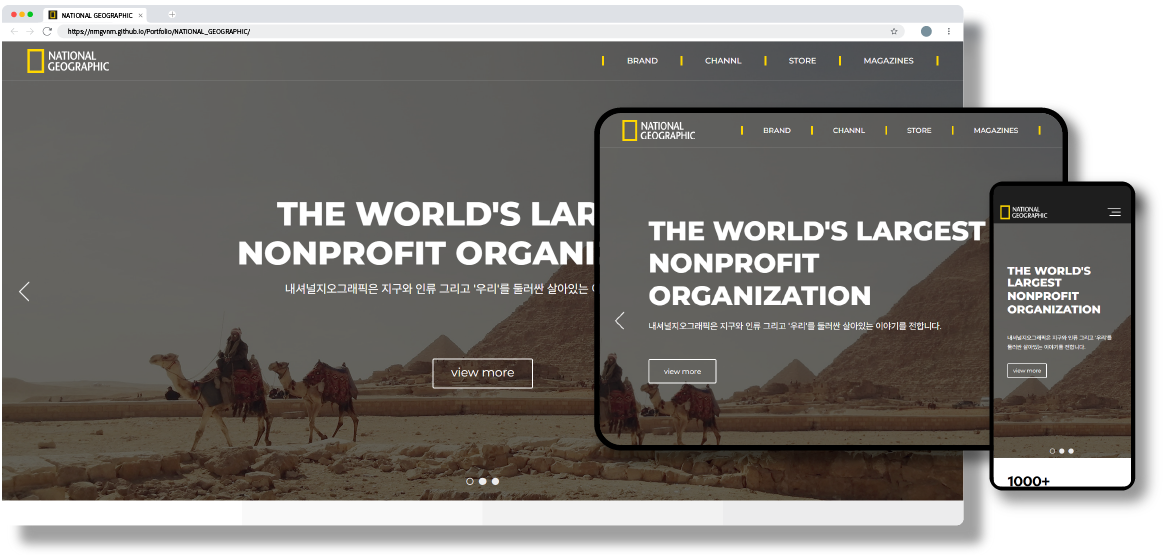
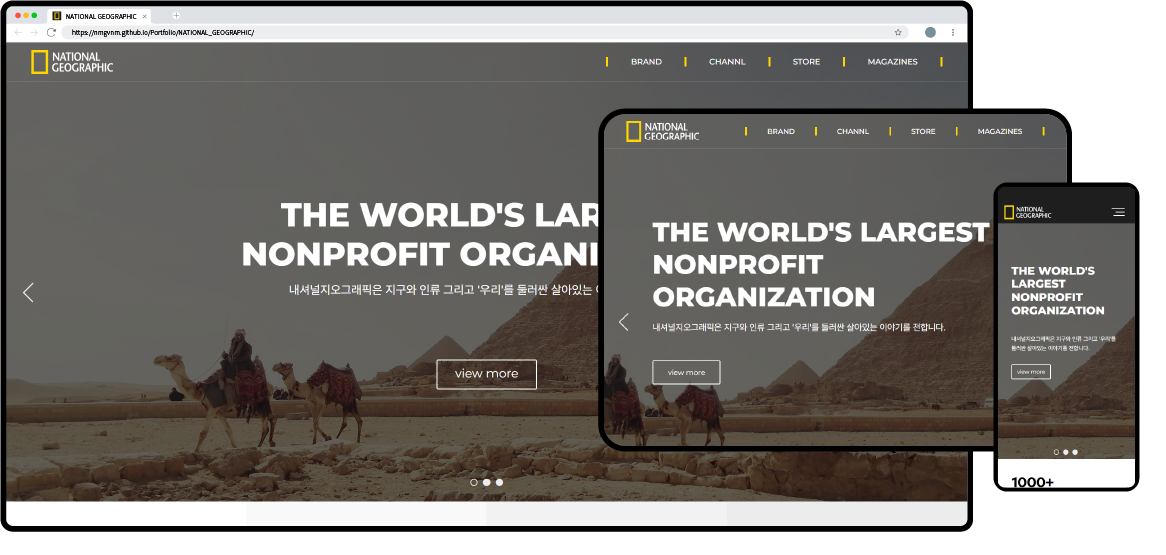
project01 css 완성

diff --git a/PROJECT/01/index.html b/PROJECT/01/index.html
@@ -4,7 +4,7 @@
  <meta charset="UTF-8">
  <meta http-equiv="X-UA-Compatible" content="IE=edge">
 <meta name="viewport" content="width=device-width, initial-scale=1, minimum-scale=1, maximum-scale=1, user-scalble=no">
-<title>NATIONAL GEOGRAPHIC</title>
+<title>PROJECT 01</title>
 <!-- reset.css -->
 <link rel="stylesheet" href="../../common/reset.css">
 <!-- font.css -->
@@ -55,11 +55,11 @@
       <div class="main01">
         <div class="design box">
           <h2>01. Design</h2>
-          <ul class="design_txt">
+          <ul class="design_txt content">
             <li id="concept">
               <h3>Concept</h3>
-              <p>내셔널지오그래픽이 가지고 있는 브랜드 이미지를 최대한 살리기 위해 브랜드 자체 컬러를 사용했습니다.<br>
-                동시에 각 메뉴에 맞는 이미지를 선정하여 시각적으로도 어떠한 메뉴인지 알 수 있도록 하였습니다.<br>
+              <p>내셔널지오그래픽이 가지고 있는 브랜드 이미지를 최대한 살리기 위해 브랜드 자체 컬러를 사용했습니다.
+                동시에 각 메뉴에 맞는 이미지를 선정하여 시각적으로도 어떠한 메뉴인지 알 수 있도록 하였습니다.
                 깔끔한 이미지를 위해 정돈된 레이아웃과 가독성있는 폰트를 사용하였습니다.</p>
             </li>
             <li id="keyword">
@@ -155,44 +155,46 @@
       <div class="main02">
         <div class="pubilsing box">
           <h2>02. Pubilsing</h2>
-          <div id="responsive">
-            <h3>Responsive</h3>
-            <ul id="device">
-              <li>
-                <p>PC</p>
-                <p>1440px</p>
-              </li>
-              <li>
-                <p>Tablet</p>
-                <p>980px</p>
-              </li>
-              <li>
-                <p>Mobile</p>
-                <p>390px</p>
-              </li>
-            </ul>
-          </div>
-          <div id="about">
-            <h3>About</h3>
-            <ul class="tag">
-              <li>#grid</li>
-              <li>#cssTransition</li>
-              <li>#반응형웹</li>
-              <li>#JavaScript</li>
-              <li>#API</li>
-              <li>#웹표준</li>
-            </ul>
-          </div>
-          <div id="goal">
-            <h3>Goal</h3>
-            <p>JavaScript, API 적용 및 반응형 웹 제작</p>
+          <div class="pubilsing_txt content">
+            <div id="responsive">
+              <h3>Responsive</h3>
+              <ul id="device">
+                <li>
+                  <p>PC</p>
+                  <p>1440px</p>
+                </li>
+                <li>
+                  <p>Tablet</p>
+                  <p>980px</p>
+                </li>
+                <li>
+                  <p>Mobile</p>
+                  <p>390px</p>
+                </li>
+              </ul>
+            </div>
+            <div id="about">
+              <h3>About</h3>
+              <ul class="tag">
+                <li>#grid</li>
+                <li>#cssTransition</li>
+                <li>#반응형웹</li>
+                <li>#JavaScript</li>
+                <li>#API</li>
+                <li>#웹표준</li>
+              </ul>
+            </div>
+            <div id="goal">
+              <h3>Goal</h3>
+              <p>JavaScript, API 적용 및 반응형 웹 제작</p>
+            </div>
           </div>
         </div>
       </div>
       <div class="main03">
         <div class="problems_solution box">
           <h2>03. Problems & Solution</h2>
-          <ul class="txt">
+          <ul class="PS_txt content">
             <li>
               <h3>화면 크기에 따른 gird 레이아웃 오류</h3>
               <p>모바일에서 주었던 grid값 때문에 태블릿 버전의 레이아웃이 무너짐.<br>
@@ -200,13 +202,13 @@
             </li>
             <li>
               <h3>숫자 카운팅 효과</h3>
-              <p>.setInterval() /.clearInterval() 이용하여 작업함. 하지만 숫자마다 올라가는 <br>
-                속도가 다르고 아직 사용에 미숙하여 작동에 버벅거림이 있다. <br>
+              <p>.setInterval() /.clearInterval() 이용하여 작업함. 하지만 숫자마다 올라가는 
+                속도가 다르고 아직 사용에 미숙하여 작동에 버벅거림이 있다. 
                 좀 더 쉽게 구현할 방법을 찾아봐야 함.</p>
             </li>
             <li>
               <h3>JavaScript .Toggle() 이용</h3>
-              <p>모바일 버전일 때 메뉴를 css의 hover을 이용하여 구현함. 새로 배운 .toggle()을<br>
+              <p>모바일 버전일 때 메뉴를 css의 hover을 이용하여 구현함. 새로 배운 .toggle()을
                 이용하여 모바일 버전에서 클릭시 메뉴가 보일 수 있도록 추가 작업함. </p>
             </li>
           </ul>
@@ -215,22 +217,27 @@
       <div class="main04">
         <div class="review box">
           <h2>04. Review</h2>
-          <p>디자인부터 퍼블리싱까지 처음으로 제작한 첫 프로젝트입니다.<br>
-            반응형으로 웹을 처음으로 제작하려다 보니 다양한 부분에서 신경 써야 할 것들이 많았습니다.<br>
-            미디어 쿼리와 vw 가변 단위 값을 이용하여 사용자별 환경, 디바이스 제약을 해결하기 위해<br>
-            노력하였습니다.</p>
-          <p>HTML과 CSS의 적용은 어느 정도 적응이 되어 적절한 태그들을 활용하여 레이아웃을<br>
-            만드는 것은 조금 더 수월해졌습니다. 처음으로 JavaScript를 배웠고, 이후에 적용하며<br>
-            변하는 웹사이트를 보면 신기하기도 하고, 뿌듯했습니다.
-            </p>
-          <p>이 작업을 진행하면서 많은 부분에서 고민을 했고, 모르는 부분들을 구글링을 통해 문제를<br>
-            해결해나갔습니다. 아직 부족한 점도 많지만, 이번 프로젝트를 진행하면서 어떠한 방향으로<br>
-            더 노력해나가야 하는지 알게 되었습니다.</p>
+          <div class="review_txt content">
+            <p>디자인부터 퍼블리싱까지 처음으로 제작한 첫 프로젝트입니다.
+              반응형으로 웹을 처음으로 제작하려다 보니 다양한 부분에서 신경 써야 할 것들이 많았습니다.
+              미디어 쿼리와 vw 가변 단위 값을 이용하여 사용자별 환경, 디바이스 제약을 해결하기 위해
+              노력하였습니다.</p>
+            <p>HTML과 CSS의 적용은 어느 정도 적응이 되어 적절한 태그들을 활용하여 레이아웃을
+              만드는 것은 조금 더 수월해졌습니다. 처음으로 JavaScript를 배웠고, 이후에 적용하며
+              변하는 웹사이트를 보면 신기하기도 하고, 뿌듯했습니다.
+              </p>
+            <p>이 작업을 진행하면서 많은 부분에서 고민을 했고, 모르는 부분들을 구글링을 통해 문제를
+              해결해나갔습니다. 아직 부족한 점도 많지만, 이번 프로젝트를 진행하면서 어떠한 방향으로
+              더 노력해나가야 하는지 알게 되었습니다.</p>
+          </div>
         </div>
       </div>
     </main>
-    <div class="view_site">
-      <a href="https://nmgvnm.github.io/Portfolio/NATIONAL_GEOGRAPHIC/">VIEW SITE <img src="./images/SVG/view_arrow.svg" alt="arrow"></a>
+    <div class="view_site_wrapper">
+      <ul class="view_site">
+        <li><a href="https://nmgvnm.github.io/Portfolio/NATIONAL_GEOGRAPHIC/" target="_blank">VIEW SITE</a></li>
+        <li><img src="./images/SVG/view_arrow.svg" alt="arrow"></li>
+      </ul>
     </div>
     <!-- footer copyrights -->
     <footer>

diff --git a/PROJECT/01/Stylesheets/style.css b/PROJECT/01/Stylesheets/style.css
@@ -6,6 +6,8 @@
 .wrapper {background-color: var(--bg-color); width: 100%; overflow: hidden;}
 a {color: #000; display: block;}
 h2 {font-family:'SilkSerif';}
+
+/****** header ******/
 /* nav바 상단고정 */
 nav {
   height: 123px; width: 100%; 
@@ -38,14 +40,6 @@ nav #gnb li:last-child h5 {
   position: relative;
   transition: .5s;
 }
-/* nav #gnb li:last-child h5::before {
-  content: "";
-  position: absolute;
-  width: 0; height: 10px;
-  bottom: 0; left: 0;
-  transition: .5s;
-  background-color: rgba(70, 130, 180,.7);
-} */
 nav #gnb li:last-child h5:hover::before {
   width: 100%;
 }
@@ -90,6 +84,7 @@ nav #gnb li:last-child #menu_box a {
   padding-bottom: 3px;
   position: relative;
 }
+/* menu hover 스타일 */
 nav #gnb li:last-child #menu_box a::after {
   content: '';
   position: absolute;
@@ -109,6 +104,8 @@ nav #gnb li:last-child #menu_box li:hover a::after {
   position: absolute;
   top: 178px; left: 21.41vw;
 }
+
+/* project title */
 .title * {position: absolute;}
 .title {
   width: 100%; height: 180px;
@@ -142,11 +139,20 @@ nav #gnb li:last-child #menu_box li:hover a::after {
 }
 
 
-/* main */
+/****** main ******/
 main .box {
   width: 1063px; height: 1500px;
   margin: 0 auto;
   position: relative; 
+}
+
+/* main 공통값 */
+main .box {position: relative;}
+main .content {position: absolute; top: 200px; left: 50px;}
+main .content h3 {
+  font-family: 'Montserrat';
+  font-weight: 500;
+  font-size: 28px;
 }
 /* 각 박스 하단의 border값 삽입 */
 main .box::after {
@@ -158,32 +164,26 @@ main .box::after {
   bottom: 0; left: 50%;
   transform: translate(-50%);
 }
+/* 소제목 position값 */
 main h2 {position: absolute; top: 100px; left: 0; font-size: 50px;}
 
 /* main 01 _ design */
-.main01 {width: 100%; height: 1700px;}
+.main01 {width: 100%; height: 1800px;}
 main .main01 .design {
   height: inherit;
-  position: relative; 
 }
-.main01 .design .design_txt {
-  position: absolute;
-  top: 100px; left: 50px;
-  overflow: hidden;
-}
-.main01 .design .design_txt h3 {
-  font-family: 'Montserrat';
-  font-weight: 500;
-  font-size: 28px;
-  margin-top: 100px;
-}
+main .main01 .design h3 {margin-top: 147px;}
+
 .main01 .design .design_txt p {
-  font-family: 'GmarketSans'; font-weight: 300;
+  font-family: 'Pretendard';
+  font-weight: 300;
   color: #000;
 }
+.main01 .design .design_txt #concept h3 {margin-top: 0;}
 .main01 .design .design_txt #concept p {
-  font-size: 20px; line-height: 2.125rem;
+  font-size: 22px; line-height: 2.125rem;
   padding: 30px 30px;
+  word-break: keep-all;
 }
 .main01 .design .design_txt #keyword .keyBox {
   display: flex; 
@@ -202,7 +202,11 @@ main .main01 .design {
   text-align: center;
 }
 .main01 .design .design_txt #colorPalette .colorBox li {margin: 30px 30px;}
-.main01 .design .design_txt #colorPalette .colorBox .color {width: 100px; height: 100px; border-radius: 50%; color: rgba(0, 0, 0, 0); margin-bottom: 10px;}
+.main01 .design .design_txt #colorPalette .colorBox .color {
+  width: 100px; height: 100px; 
+  border-radius: 50%; color: rgba(0, 0, 0, 0); 
+  margin-bottom: 10px;
+}
 .main01 .design .design_txt #colorPalette .colorBox .color1 {background-color: #1e1e1e;}
 .main01 .design .design_txt #colorPalette .colorBox .color2 {background-color: #ffd700;}
 .main01 .design .design_txt #colorPalette .colorBox .color3 {background-color: #ececed; border: 1px solid var(--main-color);}
@@ -252,3 +256,88 @@ main .main01 .design {
 .main01 .design .design_txt #typography #eng #montserrat * {font-family: 'Montserrat';}
 .main01 .design .design_txt #typography #eng #montserrat .font li:nth-child(3) * {font-weight: 800;}
 .main01 .design .design_txt #typography #eng #montserrat h5{margin-top: 20px;}
+
+
+
+/* main 02 */
+.main02 {width: 100%; height: 596px;}
+.main02 .pubilsing { height: inherit}
+.main02 p {font-family: 'Pretendard'; font-weight: 300; font-size: 22px;}
+.main02 h3 {margin-bottom: 20px;}
+.main02 .pubilsing_txt {
+  width: 90%;
+  display: grid;
+  grid-template: repeat(2, 1fr) / repeat(2, 1fr) ;
+}
+.main02 #device p { font-family:'Montserrat'; font-weight: 400;}
+.main02 #device li {display: flex; margin-bottom: 10px;}
+.main02 #device li > p {width: 120px;}
+.main02 #about .tag {
+  display: grid;
+  grid-template: repeat(2, 35px) / repeat(3, 1fr);
+  font-size: 22px;
+  font-family:'Montserrat';
+  font-weight: 400;
+}
+.main02 #about .tag li {
+  margin-right: 10px;
+}
+.main02 #about .tag li:nth-child(3),
+.main02 #about .tag li:nth-child(6) {font-family: 'Pretendard'; font-weight: 300;}
+.main02 #goal {
+  grid-column: 2;
+  margin: 20px 0;
+}
+
+main .main03 .problems_solution {height: 984px;}
+.main03 .PS_txt h3 { font-family: 'Pretendard'; margin-bottom: 10px; font-size: 30px;}
+.main03 .PS_txt {left: 50px;}
+.main03 .PS_txt li {
+  margin-bottom: 90px; font-family: 'Pretendard';
+  font-weight: 300;
+  font-size: 24px;
+  line-height: 2.5rem;
+  word-break: keep-all;
+}
+
+main .main04 {height: 714px;}
+.main04 p {
+  font-family: 'Pretendard';
+  font-weight: 300;
+  font-size: 24px;
+  line-height: 2.5rem;
+  word-break: keep-all;
+  margin-bottom: 30px;
+}
+.view_site_wrapper {
+  position: relative;
+  width: 100vw; height: 10vh;
+}
+.view_site {
+  width: fit-content;
+  position: absolute;
+  right: 0;
+  bottom: 30px;
+  display: grid;
+  grid-template-columns: repeat(2, 1fr);
+  align-items: center;
+}
+.view_site li {margin-right: 10px; }
+.view_site a {font-size: 47px; font-family:'SilkSerif'; }
+.view_site li a::before {
+  content: '';
+  position: absolute;
+  width: 0;
+  height: 20px;
+  bottom: 0; left: 0;
+  background-color: rgba(70, 130, 180,.5);
+  transition: .5s;
+}
+.view_site li:hover a::before {
+  width: 252.11px;
+}
+
+.view_site img {width: 50px; }
+
+footer {width: 100%; height: 85.7141px; padding: 0 50px;}
+footer p {font-size: 1.25rem; line-height: 85.7141px; font-weight: 300;}

diff --git a/stylesheets/font.css b/stylesheets/font.css
@@ -58,6 +58,13 @@
 
 
 @font-face {
+  font-family: 'S-CoreDream-3Light';
+  src: url('https://cdn.jsdelivr.net/gh/projectnoonnu/noonfonts_six@1.2/S-CoreDream-3Light.woff') format('woff');
+  font-weight: normal;
+  font-style: normal;
+}
+
+@font-face {
   font-family:'SilkSerif';
   src: url(../common/font/SilkSerif-ExtraLight.woff) format('woff');
   font-style: normal;
